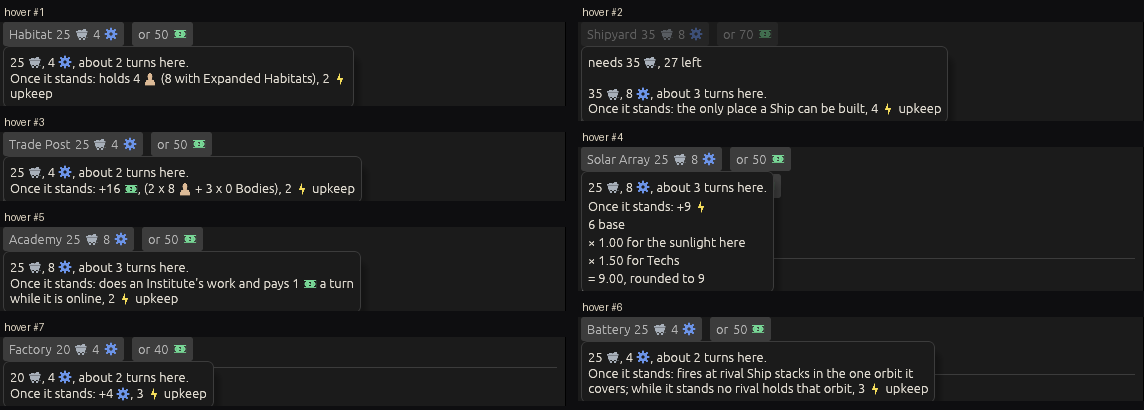
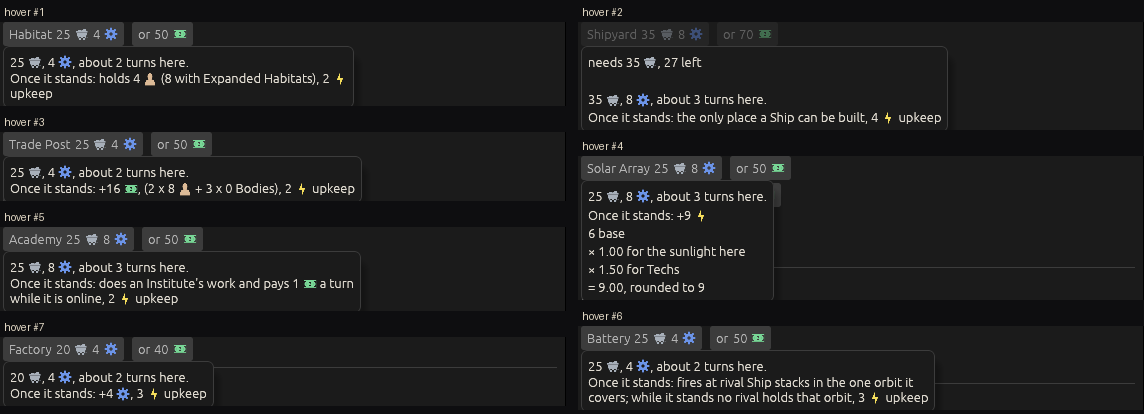
The review's fix-ups for the build hover glyphs
One parser and one once-a-pass counter for the tip: aid, where three readers each had their own
and the #k grammar reached one; an empty line in a glyph line keeps a line's height, so a refusal's
blank line before its description stands (the greyed Shipyard re-taken); the glossary's Figure
entry names Widgets and Colonists; the station's list counted at eight; the Mine tile picture named
as the defect's first sighting.

diff --git a/src/ui.rs b/src/ui.rs
@@ -4897,33 +4897,43 @@ const CHANGE_BUTTONS_WIDTH: f32 = 196.0;
 /// **A tooltip may run to a short list and no further.** Six lines is the ceiling; the Income
 /// breakdown is about that long and still works. Anything longer covers the thing it explains, which
 /// makes it a worse tooltip than none, and belongs on the card.
+/// `tip:<word>` or `tip:<word>#<k>` (a building aid, not part of the spec): the word a tooltip's
+/// text must contain to be forced open in a headless picture, and which match to open, the first
+/// unless a `#k` says otherwise. Ticket #392 (version 0.09.3): one parser for the three places
+/// that read the aid, where each had its own and the `#k` grammar reached only one of them.
+fn tip_aid() -> Option<(String, u32)> {
+    let arg = std::env::args().find_map(|a| a.strip_prefix("tip:").map(str::to_owned))?;
+    Some(match arg.rsplit_once('#').and_then(|(w, k)| k.parse::<u32>().ok().map(|k| (w.to_string(), k))) {
+        Some(parsed) => parsed,
+        None => (arg, 1),
+    })
+}
+
+/// Whether this tooltip is the one the `tip:` aid forces open on this pass: its text contains the
+/// word, and it is the k-th such tooltip drawn this pass. The count rides with the pass number, so
+/// a card of twelve build buttons all reading "Once it stands" opens exactly one of them, and the
+/// `#k` picks which; egui's sizing pass has a pass number of its own, so it counts afresh.
+fn tip_fires(ctx: &egui::Context, text: &str) -> bool {
+    let Some((word, wanted)) = tip_aid() else { return false };
+    if !text.contains(&word) {
+        return false;
+    }
+    let pass = ctx.cumulative_pass_nr();
+    let (seen_pass, seen): (u64, u32) = ctx.data(|d| d.get_temp(egui::Id::new("tip_seen"))).unwrap_or((u64::MAX, 0));
+    let seen = if seen_pass == pass { seen } else { 0 };
+    ctx.data_mut(|d| d.insert_temp(egui::Id::new("tip_seen"), (pass, seen + 1)));
+    seen + 1 == wanted
+}
+
 fn rule_tip(response: egui::Response, text: String) -> egui::Response {
-    // `tip:<word>` (a building aid, not part of the spec): the first tooltip whose text contains
-    // that word is shown WITHOUT a hover, so a headless picture can be taken of one. A tooltip is
+    // `tip:<word>` (a building aid, not part of the spec): the tooltip whose text contains that
+    // word is shown WITHOUT a hover, so a headless picture can be taken of one. A tooltip is
     // otherwise unreachable in a shot: the window sits off-screen and no pointer ever enters it,
-    // which would leave every tooltip in the game unlooked-at.
-    // Ticket #392 (version 0.09.3): `tip:<word>#<k>` shows the k-th tooltip containing the word,
-    // so a build list whose every hover reads "Once it stands" can be pictured button by button.
-    if let Some(arg) = std::env::args().find_map(|a| a.strip_prefix("tip:").map(str::to_owned)) {
-        let (word, wanted) = match arg.rsplit_once('#') {
-            Some((w, k)) if k.parse::<u32>().is_ok() => (w.to_string(), k.parse::<u32>().unwrap_or(1)),
-            _ => (arg.clone(), 1),
-        };
-        if text.contains(&word) {
-            // Once a frame: a card of twelve build buttons all match "Ready", and twelve tooltips at
-            // once is a picture of nothing. The count of matches so far this frame rides with the
-            // frame number, so the k-th can be told from the first.
-            let pass = response.ctx.cumulative_pass_nr();
-            let (seen_pass, seen): (u64, u32) = response.ctx.data(|d| d.get_temp(egui::Id::new("tip_seen"))).unwrap_or((u64::MAX, 0));
-            let seen = if seen_pass == pass { seen } else { 0 };
-            let fired: Option<u64> = response.ctx.data(|d| d.get_temp(egui::Id::new("tip_fired")));
-            response.ctx.data_mut(|d| d.insert_temp(egui::Id::new("tip_seen"), (pass, seen + 1)));
-            if fired != Some(pass) && seen + 1 == wanted {
-                response.ctx.data_mut(|d| d.insert_temp(egui::Id::new("tip_fired"), pass));
-                response.show_tooltip_ui(|ui| hover_with_icons(ui, &text));
-                return response;
-            }
-        }
+    // which would leave every tooltip in the game unlooked-at. Ticket #392 (version 0.09.3): the
+    // k-th match, through `tip_fires`, so a build list can be pictured button by button.
+    if tip_fires(&response.ctx, &text) {
+        response.show_tooltip_ui(|ui| hover_with_icons(ui, &text));
+        return response;
     }
     // Ticket #380 (version 0.09.2): on BOTH states of the widget. egui's `on_hover_ui` opens only
     // on an enabled widget and `on_disabled_hover_ui` only on a greyed one, and from ticket #238
@@ -4956,23 +4966,16 @@ fn hover_lines_estimate(text: &str) -> usize {
 /// passes through the function above. The reason a greyed End Turn gives is exactly the kind of
 /// thing that has to be photographed, and headless nothing hovers.
 fn forced_tip(text: &str) -> bool {
-    std::env::args().find_map(|a| a.strip_prefix("tip:").map(str::to_owned)).map(|word| text.contains(&word)).unwrap_or(false)
+    tip_aid().is_some_and(|(word, _)| text.contains(&word))
 }
 
 /// Ticket #153 (version 0.07.4): `rule_tip` for a tooltip that DRAWS rather than says -- the
 /// Emissions history. `word` is what the `tip:` aid matches against, so the hover can be
 /// photographed headlessly like any other; the same once-a-frame guard applies.
 fn rule_tip_ui(response: egui::Response, word: &str, add: impl Fn(&mut Ui)) -> egui::Response {
-    if let Some(wanted) = std::env::args().find_map(|a| a.strip_prefix("tip:").map(str::to_owned))
-        && word.contains(&wanted)
-    {
-        let pass = response.ctx.cumulative_pass_nr();
-        let fired: Option<u64> = response.ctx.data(|d| d.get_temp(egui::Id::new("tip_fired")));
-        if fired != Some(pass) {
-            response.ctx.data_mut(|d| d.insert_temp(egui::Id::new("tip_fired"), pass));
-            response.show_tooltip_ui(|ui| add(ui));
-            return response;
-        }
+    if tip_fires(&response.ctx, word) {
+        response.show_tooltip_ui(|ui| add(ui));
+        return response;
     }
     response.on_hover_ui(|ui| add(ui))
 }
@@ -5072,7 +5075,7 @@ fn hover_with_icons(ui: &mut Ui, text: &str) {
     text_with_icons(ui, text, 14.0, Color32::from_rgb(225, 220, 210));
 }
 
-/// The eight figures that have a glyph, in both the spellings the game's prose uses. The five
+/// The figures that have a glyph (eight when this was written), in both the spellings the game's prose uses. The five
 /// resources and Influence are capitalised as defined terms; population and emissions are written
 /// in lower case mid-sentence, so both forms have to be looked for.
 /// Ticket #332 (version 0.09.0): and Widgets, the eleventh, so `8 Widgets` wears the cog.
@@ -5165,6 +5168,12 @@ fn draw_with_icons(ui: &mut Ui, text: &str, size: f32, tint: Color32, extra: &[(
         let mut previous_was_a_figure = false;
         for piece in glyph_tokens(text) {
             let token = match piece {
+                // The review's fix-up: an empty line -- a refusal's blank line before its description --
+                // keeps a line's height, where two bare row ends would leave only the row spacing.
+                GlyphToken::Word("") => {
+                    ui.label(" ");
+                    continue;
+                }
                 GlyphToken::Word(w) => w,
                 // Ticket #392 (version 0.09.3): a line break in the text ends the row here, where
                 // before it rode inside the word beside it -- so "0.6 Emissions" at the end of a

diff --git a/docs/dev-diary/2026-09-26-version-0.09.3/ticket-392-build-hover/README.md b/docs/dev-diary/2026-09-26-version-0.09.3/ticket-392-build-hover/README.md
@@ -21,7 +21,7 @@ make, and two figures with no glyph, *Colonists* and *Bodies*.
 | [`before-constabulary.png`](before-constabulary.png) | five lines of sentence, *2 [bolt] upkeep* at the end |
 | [`before-launch-site.png`](before-launch-site.png) | four lines of sentence, *2 [bolt] upkeep* at the end |
 | [`before-trade-post.png`](before-trade-post.png) | *+16 [coin], (2 x 8 Colonists + 3 x 0 Bodies), 2 [bolt] upkeep*: two figures as words |
-| [`before-mine-tile.png`](before-mine-tile.png) | a standing Mine's tile hover with its chain: *4 base, × 1.50 as this Region leans Materials, = 6* |
+| [`before-mine-tile.png`](before-mine-tile.png) | a standing Mine's tile hover with its chain: *4 base, × 1.50 as this Region leans Materials, = 6*; its *0.6 Emissions* above the chain is a word, the defect below, which the same drawer fixes on the tiles too |
 
 ## What was built
 
@@ -49,7 +49,7 @@ on Coastal Engineering, so it is not offered on turn 1).
 
 ![Every build hover on a Region's list](after-region-list.png)
 
-**A station's list**, `seed:7 turns:6 hab:1 habtile:free`: seven of nine, the Observatory greyed
+**A station's list**, `seed:7 turns:6 hab:1 habtile:free`: seven of eight, the Observatory greyed
 (one is under way) with its hover the refusal alone, since its five-line chain would not fit under
 it within the six-line ceiling.
 
@@ -69,3 +69,14 @@ them; `a_word_ending_a_line_is_bare_and_the_break_is_its_own_piece` against the 
 whose red is the three pictures above as first taken. The suite is 529 in the engine, 11 and 6 in
 the root crate; the clippy gate `cargo clippy --workspace --release --all-targets -- -D warnings`
 is clean. No rule moved; no sweep.
+
+## The review
+
+The standards review found the `tip:` aid parsed in three places with the new `#k` grammar in one,
+now one parser (`tip_aid`) and one once-a-pass counter (`tip_fires`) for all three; and that two
+row ends in a row, a refusal's blank line before its description, would collapse to the row
+spacing: an empty line now keeps a line's height, the greyed Shipyard's hover re-taken to show it.
+The spec review counted the station's list at eight, not nine as first written here, and found the
+glossary's *Figure* entry still naming eight figures without Widgets or Colonists, now amended. It
+also flagged the singular *Ducat* as a glyph decision the resolution names but the designer's Q2
+answer did not: it stays, and the closing report says so.

diff --git a/CONTEXT.md b/CONTEXT.md
@@ -211,7 +211,7 @@ Retired in version 0.07.5; see Module. It was the window, from version 0.07.3, t
 _Avoid_: using it for the tiles on a Colony's card, which have no name of their own; module window, colony screen, base view, habitat panel
 
 **Figure**:
-One of the eight things the board counts and draws a glyph for: Materials, Fuel, Energy, Research, Ducats, population, Influence and Emissions. A figure's glyph carries one fill wherever it is drawn, decided by which figure it is and never by the colour of the text around it, and a word is traded for its glyph only where it names a figure -- which is to say only directly after a number, or, since version 0.07.3, where it heads a multiplier (`[research] x1.25` on a Faction card, `leans [materials]` on the start globe), with the phrase the glyph replaced on its hover.
+One of the things the board counts and draws a glyph for: Materials, Widgets (since version 0.09.0), Fuel, Energy, Research, Ducats, population (and, since version 0.09.3, a count of Colonists, who wear the same head), Influence and Emissions. A figure's glyph carries one fill wherever it is drawn, decided by which figure it is and never by the colour of the text around it, and a word is traded for its glyph only where it names a figure -- which is to say only directly after a number, or, since version 0.07.3, where it heads a multiplier (`[research] x1.25` on a Faction card, `leans [materials]` on the start globe), with the phrase the glyph replaced on its hover.
 _Avoid_: stat, counter, metric, indicator
 
 **Roster**:
